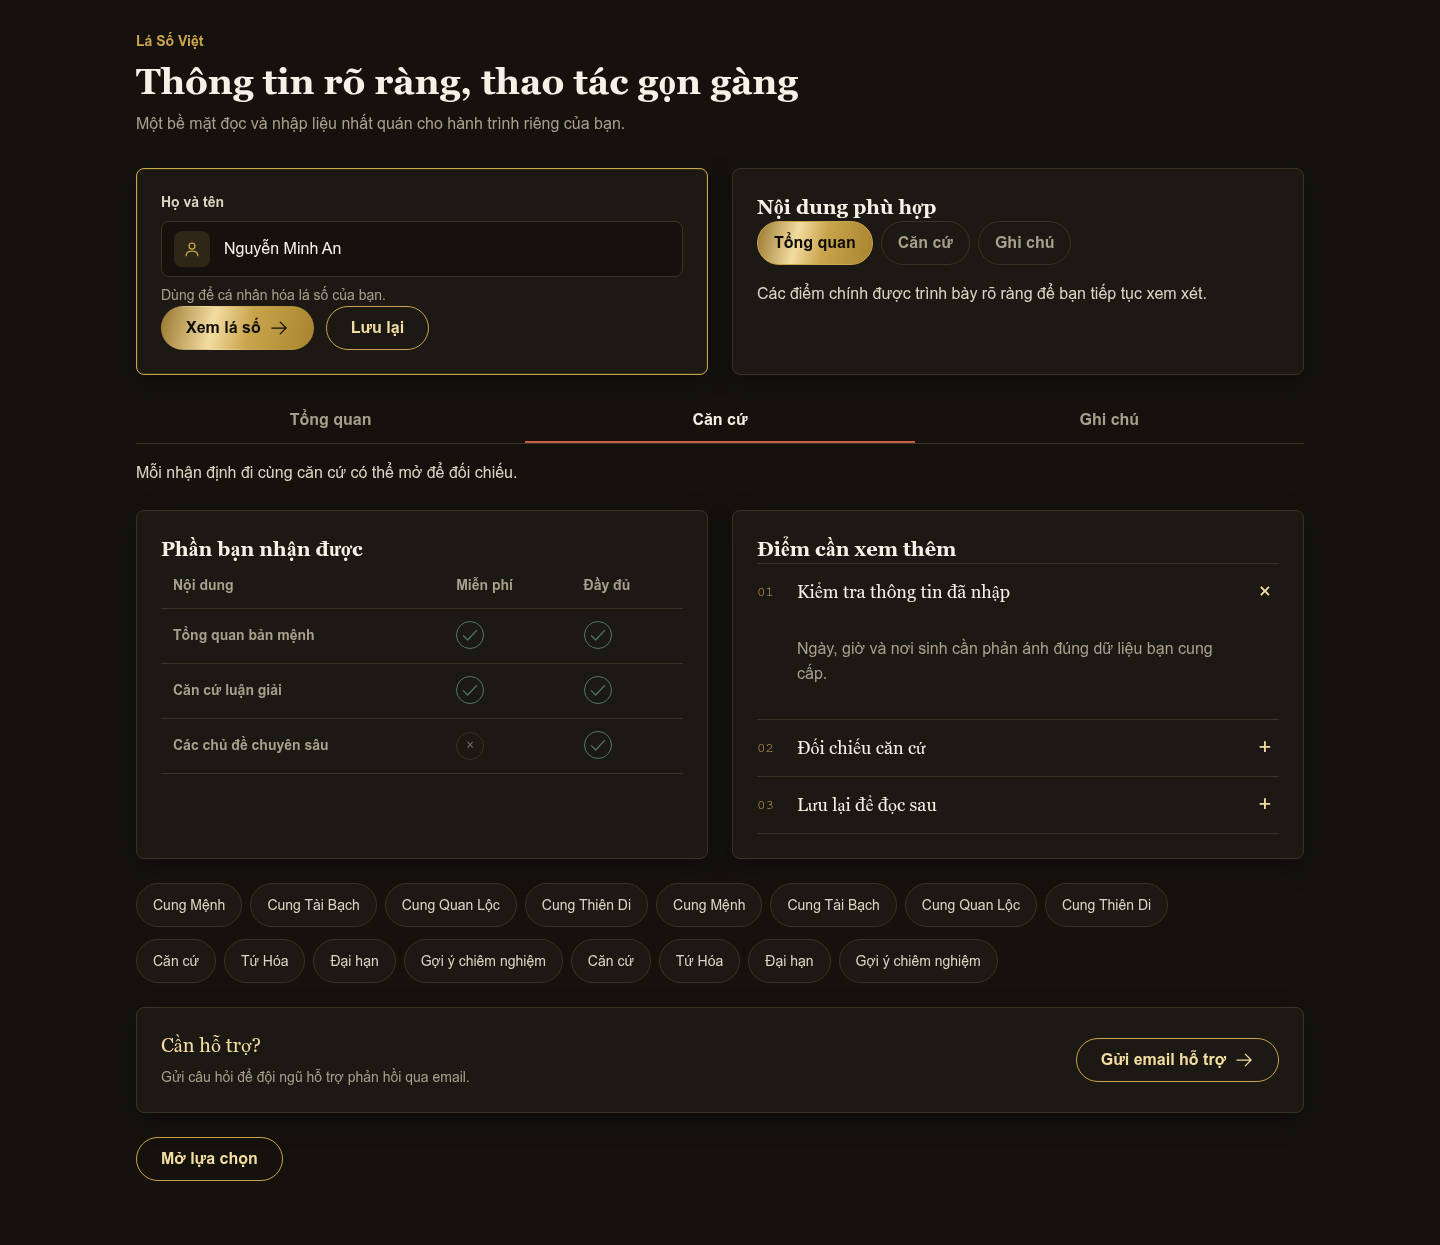
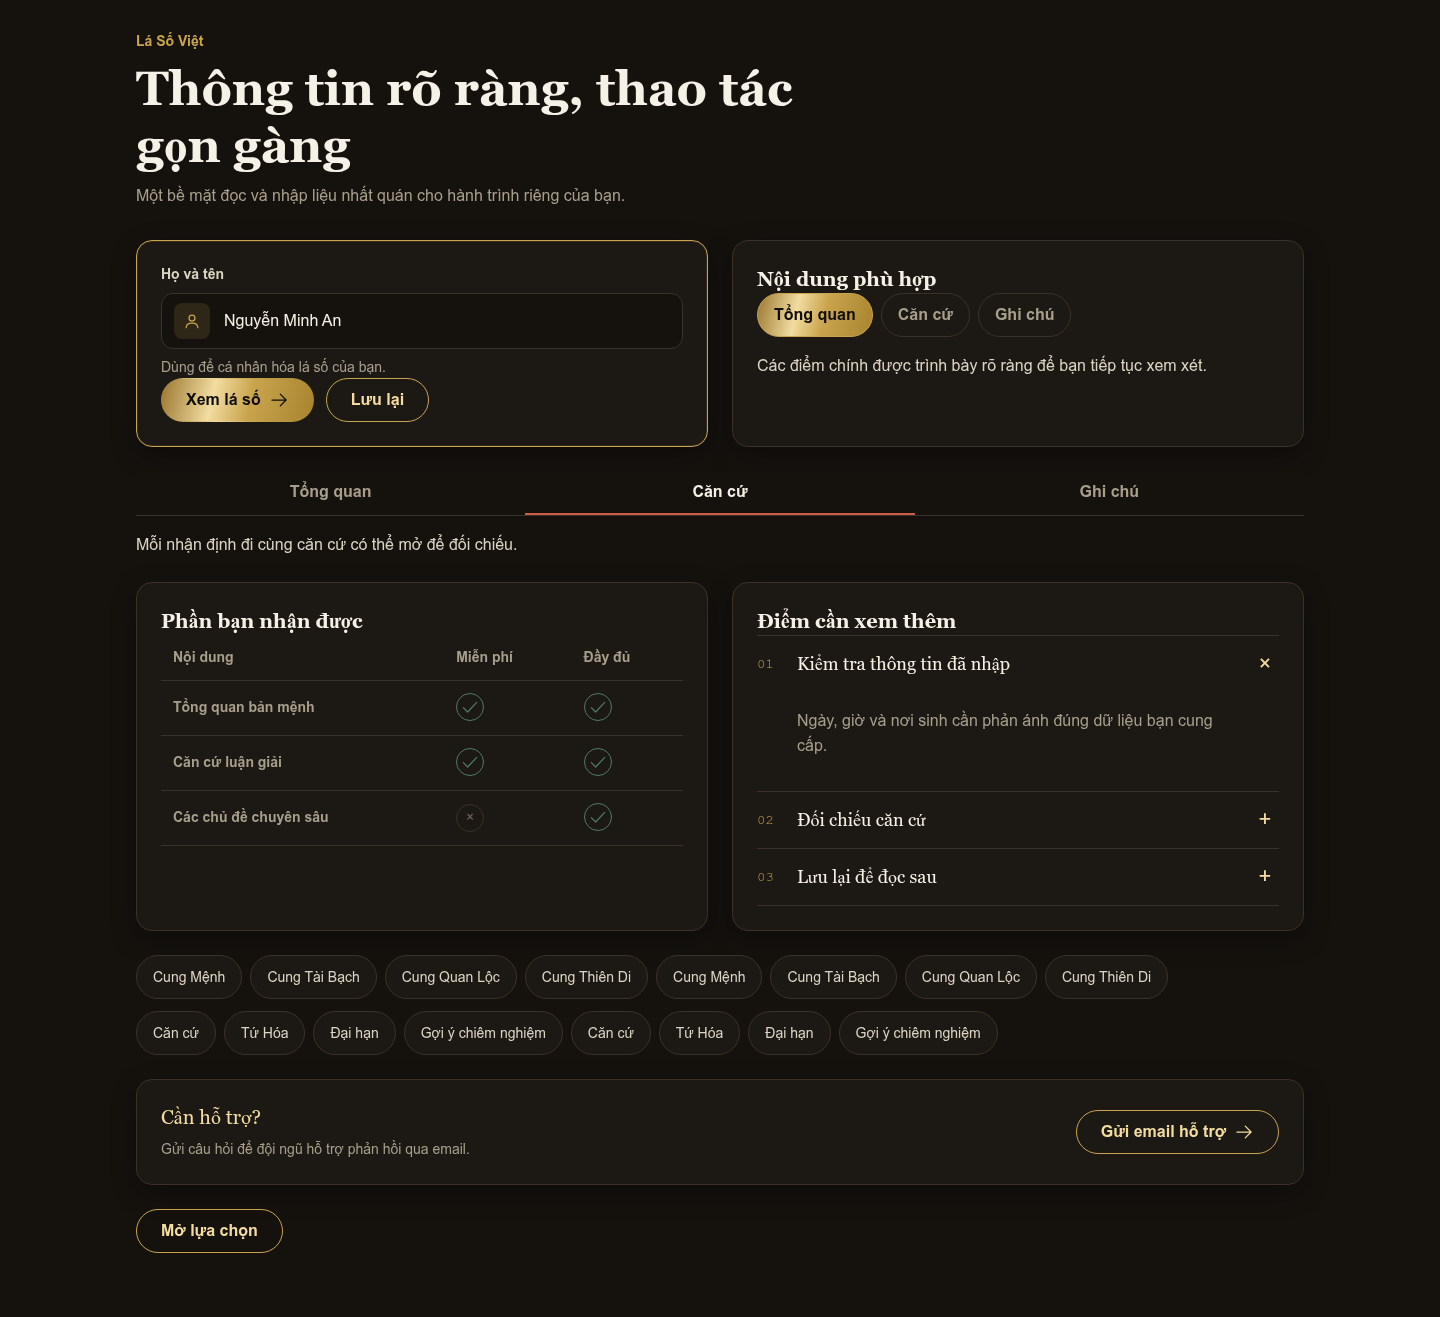
fix(web): align UI artifact geometry

diff --git a/tests/web/ui-core-token-contract.test.ts b/tests/web/ui-core-token-contract.test.ts
@@ -11,8 +11,8 @@ describe("UI core token contract", () => {
 
     for (const token of [
       "--jade-500",
-      "--radius-card: 8px",
-      "--radius-field: 8px",
+      "--radius-card: 16px",
+      "--radius-field: 12px",
       "--radius-pill: 9999px",
       "--control-height: 44px",
       "--control-height-primary: 48px",

diff --git a/apps/web/src/styles/ui-core.css b/apps/web/src/styles/ui-core.css
@@ -399,7 +399,7 @@
 .ui-artifact__title {
   margin: 0;
   color: var(--pearl-50);
-  font: 600 36px/1.2 var(--font-display);
+  font: 600 48px/1.2 var(--font-display);
 }
 
 .ui-artifact__lead {
@@ -452,7 +452,7 @@
   }
 
   .ui-artifact__title {
-    font-size: 28px;
+    font-size: 32px;
   }
 
   .ui-artifact__grid {

diff --git a/apps/web/src/styles/tokens.css b/apps/web/src/styles/tokens.css
@@ -34,9 +34,9 @@
 
   --radius-small: 4px;
   --radius-control: 8px;
-  --radius-card: 8px;
+  --radius-card: 16px;
   --radius-modal: 12px;
-  --radius-field: 8px;
+  --radius-field: 12px;
   --radius-pill: 9999px;
   --touch-target-min: 44px;
   --control-height: 44px;
